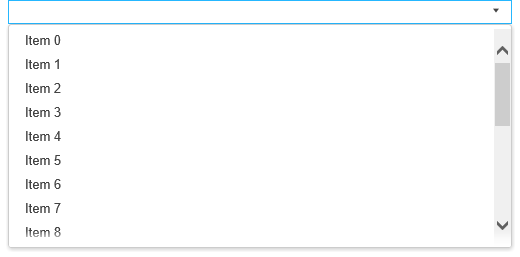
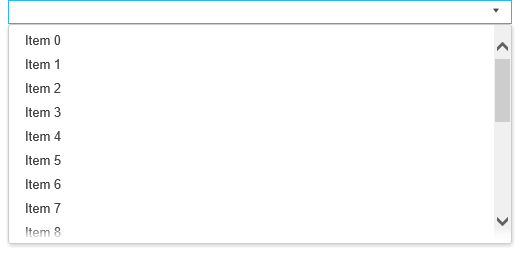
RG-1196 Small top spacing appears on select's popup
Former-commit-id: f2425d9a7e0c83951c590b38044842c76950ad44

diff --git a/components/list/list.scss b/components/list/list.scss
@@ -5,7 +5,6 @@ $list-spacing: $ring-unit / 2;
 .ring-list {
   position: relative;
 
-  padding-top: $list-spacing;
   z-index: 1;
 
   line-height: normal;
@@ -44,6 +43,10 @@ $list-spacing: $ring-unit / 2;
   }
 }
 
+.ring-list__items {
+  margin: $list-spacing 0;
+}
+
 .ring-list__item {
   display: flex;
   flex-direction: column;
@@ -58,10 +61,6 @@ $list-spacing: $ring-unit / 2;
   outline: none;
   vertical-align: bottom;
   text-decoration: none;
-
-  &:last-of-type {
-    margin-bottom: $list-spacing;
-  }
 
   &_error {
     color: #F00;

diff --git a/components/list/list.js b/components/list/list.js
@@ -492,7 +492,7 @@ export default class List extends RingComponentWithShortcuts {
           style={innerStyles}
         >
           <div style={topPaddingStyles}></div>
-          <div
+          <div className="ring-list__items"
             ref={el => {
               this.items = el;
             }}
